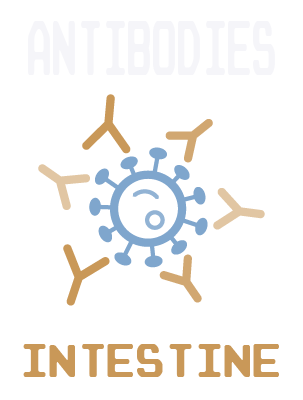
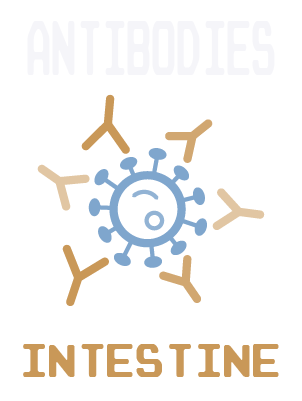
Fix immune-card reveal staleness, Hepatitis spread rarity, and trade grid layout
Gameplay fixes:
- Fixed a real bug behind "NK Cell's cleared cell showed the wrong icon
  mid-animation": revealBoardCells() always read the board's live,
  fully-turn-resolved state instead of a snapshot of what that specific
  card actually did. Since every immune card resolves synchronously
  before any of it is narrated, a later card touching the same cell (NK
  Cell clears the last infected cell in a row, then Antibody protects
  that now-empty row) made NK's own reveal step show the FINAL state
  instead of its own. Now captures an afterStates snapshot right after
  each card's own apply() call and renders that during its own reveal.
- Root-caused the "Antibody: Liver" banner label appearing over Lung's
  board/log activity to a mislabeled static asset
  (immune-antibody-lung.png actually contained "LIVER" artwork), not a
  code bug — confirmed via 258 real immune turns with zero data-level
  mismatches. Asset now corrected.
- Hepatitis's Horizontal Spread count reduced (2 -> 1, matching Vertical's
  already-minimal rarity) to fit its slow/chronic/"silent" identity rather
  than an aggressive spreader.

UI/UX:
- Trade popup's "receive" grid now groups each tissue's own cards
  together and never splits a tissue's pair across the two rows,
  regardless of pool size — replaces the old fixed-position order that
  only worked by coincidence for one specific pool size. Non-tissue cards
  (Replication Boost, Latency, Activate Tregs, Cytokines) backfill
[…]

diff --git a/games/stealth/game-ui.js b/games/stealth/game-ui.js
@@ -936,14 +936,28 @@ function _applyCellVisual(el, cellData, tissue, col, row) {
 }
 
 // Un-hides one played card's cells at the moment its own narration step
-// fires — drops them from boardRevealMask and syncs that cell's DOM
-// straight to the live model, alongside that same step's highlightCells()
-// flash (see runAutoPhase()).
-function revealBoardCells(cells) {
+// fires — drops them from boardRevealMask and syncs that cell's DOM,
+// alongside that same step's highlightCells() flash (see runAutoPhase()).
+//
+// `afterStates` (when given — only immune_response steps have this, see
+// buildImmuneSteps()) is a snapshot of each cell taken RIGHT AFTER this
+// specific card's own effect resolved (see game.js _runImmuneResponse()),
+// and is what actually gets rendered here in preference to the board's
+// current LIVE state. Every card played this turn already resolved
+// synchronously before any of it is narrated, so if a LATER card this same
+// turn touched one of these same cells again (e.g. NK Cell clears the last
+// infected cell in a row, then Antibody protects that now-empty row a few
+// cards later), the live cell would already show THAT later result too —
+// reading as "the antibody appeared before its own turn" during what's
+// supposed to be NK's own reveal. Falls back to the live cell when there's
+// no afterStates entry for it (virus_growth/mutation reveals, which have
+// no such multi-card-same-cell conflict to guard against).
+function revealBoardCells(cells, afterStates) {
   cells.forEach(({ tissue, col, row }) => {
     delete boardRevealMask[`${tissue}|${col}|${row}`];
     const board = activeGame && activeGame.boards[tissue];
-    const cell = board && board.cells[row] && board.cells[row][col];
+    const snapshot = afterStates && afterStates.find(s => s.tissue === tissue && s.col === col && s.row === row);
+    const cell = snapshot || (board && board.cells[row] && board.cells[row][col]);
     const el = document.querySelector(`.tissue-cell[data-tissue="${tissue}"][data-col="${col}"][data-row="${row}"]`);
     if (!el || !cell) return;
     _applyCellVisual(el, cell, tissue, col, row);
@@ -1178,7 +1192,7 @@ function buildImmuneSteps(g) {
       ? `${name} — Replication Speed −${STEALTH_CONFIG.VACCINE.PROTEIN_SPEED_PENALTY_AMOUNT} for 3 turns` : name;
     const html = tissue ? `<span class="narration-tissue">${_cap(tissue)}</span> — ${label}` : label;
     steps.push({
-      html, cls: 'line-immune', tissue, cells: p.cells, flashClass: _immuneFlashClass(p.id), inGroup: true, slow: true,
+      html, cls: 'line-immune', tissue, cells: p.cells, afterStates: p.afterStates, flashClass: _immuneFlashClass(p.id), inGroup: true, slow: true,
       // Antiviral and Protein Vaccine both flash the effective-speed badge
       // the same way Replication Boost's own +1 does, just by their own
       // (different) magnitudes — see ANTIVIRAL_PENALTY_AMOUNT/
@@ -1438,7 +1452,7 @@ function runAutoPhase() {
       // moment to actually register before the board reacts.
       setTimeout(() => {
         highlightCells(step.tissue, step.cells, step.flashClass);
-        revealBoardCells(step.cells);
+        revealBoardCells(step.cells, step.afterStates);
       }, BOARD_REVEAL_DELAY_MS);
     }
     // A single line can span multiple tissues (e.g. "Virus spread in Lung,
@@ -1833,25 +1847,57 @@ function getTradeableCardIds() {
   return [...ids];
 }
 
-// Fixed order for the "receive" tab's grid — tissue-paired (Antibody
-// Escape next to that same tissue's T-Cell Evasion) rather than grouped
-// purely by card function, so the two rows of a typical 10-card pool read
-// as "Liver / Lung" then "Intestine / Cytokines" instead of every
-// Antibody Escape variant sitting apart from its T-Cell Evasion
-// counterpart. Whatever the deck/hand/discard actually contains (see
-// getTradeableCardIds()) is sorted into this order, not drawn from it —
-// latency/activate-tregs aren't itemised here since they weren't part of
-// the requested ordering, so they fall through to the "not listed" case
-// below and sort to the end rather than disappearing. Horizontal/Vertical
-// Spread are never offered here at all — see TRADE_EXCLUDED_IDS above.
+// Priority order for the "receive" tab's grid — tissue-paired (Antibody
+// Escape next to that same tissue's T-Cell Evasion), liver/lung/intestine,
+// then the non-tissue "filler" cards. This is a PRIORITY, not a literal
+// layout — arrangeTradeReceiveIds() below does the actual row placement,
+// keeping every tissue's own cards grouped and never split across the
+// two rows, using filler cards to top up whatever's left of a row. Cards
+// not itemised here (shouldn't happen) sort to the end rather than
+// disappearing. Horizontal/Vertical Spread are never offered here at all
+// — see TRADE_EXCLUDED_IDS above.
 const TRADE_RECEIVE_ORDER = [
   'antibody-escape-liver', 'mhc1-downreg-liver',
   'antibody-escape-lung', 'mhc1-downreg-lung',
-  'spread-speed-plus',
   'antibody-escape-intestine', 'mhc1-downreg-intestine',
+  'spread-speed-plus', 'latency', 'activate-tregs',
   'cytokine-neutralise-red', 'cytokine-neutralise-orange', 'cytokine-neutralise-blue',
-  'latency', 'activate-tregs',
 ];
+
+// Arranges the receive grid so each tissue's own cards always sit next to
+// each other and never get split across the two rows (see
+// renderTradeModal()'s own gridTemplateColumns, which always makes exactly
+// 2 rows) — a fixed order alone can't guarantee that once the actual pool
+// size varies per game, since a tissue's pair could land right on a row
+// boundary. Non-tissue cards (Replication Boost, Latency, Activate Tregs,
+// the 3 Cytokine Neutralisations) have no such pairing to protect, so they
+// act as flexible single-slot filler, backfilled onto whichever row still
+// has room after every tissue's own cards are placed — e.g. Replication
+// Boost sitting at the end of row 1 just to round it out.
+function arrangeTradeReceiveIds(ids) {
+  const sorted = [...ids].sort((a, b) => TRADE_RECEIVE_ORDER.indexOf(a) - TRADE_RECEIVE_ORDER.indexOf(b));
+  const tissueOf = id => (id.match(/-(liver|lung|intestine)$/) || [])[1] || null;
+
+  const byTissue = { liver: [], lung: [], intestine: [] };
+  const fillers = [];
+  sorted.forEach(id => {
+    const t = tissueOf(id);
+    if (t) byTissue[t].push(id); else fillers.push(id);
+  });
+  const tissueClusters = ['liver', 'lung', 'intestine'].map(t => byTissue[t]).filter(c => c.length);
+
+  const cols = Math.max(1, Math.ceil(ids.length / 2));
+  const rows = [[], []];
+  tissueClusters.forEach(cluster => {
+    const row = rows[0].length + cluster.length <= cols ? rows[0] : rows[1];
+    row.push(...cluster);
+  });
+  fillers.forEach(id => {
+    const row = rows[0].length < cols ? rows[0] : rows[1];
+    row.push(id);
+  });
+  return [...rows[0], ...rows[1]];
+}
 
 function renderTradeModal() {
   const giveWrap = document.getElementById('trade-give-cards');
@@ -1866,8 +1912,7 @@ function renderTradeModal() {
 
   const receiveWrap = document.getElementById('trade-receive-cards');
   receiveWrap.innerHTML = '';
-  const receiveIds = getTradeableCardIds()
-    .sort((a, b) => TRADE_RECEIVE_ORDER.indexOf(a) - TRADE_RECEIVE_ORDER.indexOf(b));
+  const receiveIds = arrangeTradeReceiveIds(getTradeableCardIds());
   receiveIds.forEach(id => {
     const def = STEALTH_CARD_DEFS[id];
     if (!def) return;

diff --git a/games/stealth/game.js b/games/stealth/game.js
@@ -397,7 +397,25 @@ class StealthGame {
           return snap ? { tissue: c.tissue, col: c.col, row: c.row, ...snap } : null;
         }).filter(Boolean);
 
-        played.push({ id: card.id, name: card.name, icon: card.icon, tissue: card.tissue, cells, beforeStates });
+        // Snapshot taken RIGHT NOW — immediately after THIS card's own
+        // apply() resolved, before the loop moves on to the next card in
+        // hand. Every card this turn resolves synchronously in one pass,
+        // well before any of it is narrated, so if a LATER card in this
+        // same loop touches one of these same cells again (e.g. NK Cell
+        // clears the last infected cell in a row, then Antibody protects
+        // that now-empty row a few cards later), the board's LIVE state by
+        // the time NK's own narration step finally reveals it would
+        // already show Antibody's result too — reading as "the antibody
+        // appeared before its own turn". afterStates is what THIS card's
+        // own reveal step actually renders instead (see revealBoardCells(),
+        // game-ui.js) — a clean freeze-frame of right after its own effect,
+        // regardless of what happens to these cells later this same turn.
+        const afterStates = cells.map(c => {
+          const cell = this.boards[c.tissue] && this.boards[c.tissue].cells[c.row] && this.boards[c.tissue].cells[c.row][c.col];
+          return cell ? { tissue: c.tissue, col: c.col, row: c.row, state: cell.state, cytokineColor: cell.cytokineColor, protectedTurns: cell.protectedTurns } : null;
+        }).filter(Boolean);
+
+        played.push({ id: card.id, name: card.name, icon: card.icon, tissue: card.tissue, cells, beforeStates, afterStates });
         this.immuneDeck.discardCard(card);
       });
       this.immuneHand = stillHeld;

diff --git a/games/stealth/cards.js b/games/stealth/cards.js
@@ -637,7 +637,8 @@ class StealthDeck {
     includedTypes.add('infect-vertical');
     const infectCounts = STEALTH_CONFIG.INFECT_CARDS[difficultyName] || STEALTH_CONFIG.INFECT_CARDS.medium;
     const verticalBonus = virusId === 'norovirus' ? STEALTH_CONFIG.NOROVIRUS_VERTICAL_BONUS : 0;
-    const horizontalBonus = virusId === 'norovirus' ? STEALTH_CONFIG.NOROVIRUS_HORIZONTAL_BONUS : 0;
+    const horizontalBonus = virusId === 'norovirus' ? STEALTH_CONFIG.NOROVIRUS_HORIZONTAL_BONUS
+                           : virusId === 'hepatitis' ? -STEALTH_CONFIG.HEPATITIS_HORIZONTAL_PENALTY : 0;
 
     // Per-virus count overrides for cards every kit now includes by default
     // (see generateDeck(), index.html) but that should show up at
@@ -662,8 +663,11 @@ class StealthDeck {
     includedTypes.forEach(id => {
       const def = STEALTH_CARD_DEFS[id];
       if (!def) return;
-      const count = id === 'infect-horizontal' ? infectCounts.horizontal + horizontalBonus
-                  : id === 'infect-vertical'   ? infectCounts.vertical + verticalBonus
+      // Floored at 1 — a penalty (Hepatitis) should make the card RARE,
+      // not remove it outright; only a bonus should ever be able to push
+      // a count down to 0 or below on its own.
+      const count = id === 'infect-horizontal' ? Math.max(1, infectCounts.horizontal + horizontalBonus)
+                  : id === 'infect-vertical'   ? Math.max(1, infectCounts.vertical + verticalBonus)
                   : countOverrides[id] !== undefined ? countOverrides[id]
                   : def.count;
       for (let i = 0; i < count; i++) this.draw.push({ ...def });

diff --git a/games/stealth/config.js b/games/stealth/config.js
@@ -258,6 +258,14 @@ const STEALTH_CONFIG = {
   // StealthDeck._buildFromLoadout.
   NOROVIRUS_VERTICAL_BONUS: 9,
   NOROVIRUS_HORIZONTAL_BONUS: 7,
+  // The opposite lean for Hepatitis — its whole identity is a slow,
+  // chronic, "silent" infection (see its own flavour text) rather than an
+  // aggressive spreader, and it already has other strengths to lean on
+  // instead (permanent Cytokine immunity, Latency, T-Cell Evasion — see
+  // its abilities). Vertical is already at INFECT_CARDS' own floor (1) for
+  // every band, so there's nothing left to cut there without removing the
+  // card outright; horizontal is what actually gets rarer for it.
+  HEPATITIS_HORIZONTAL_PENALTY: 1,
 
   // ── Cards / hand ─────────────────────────────────────────────────
   CARDS: {

diff --git a/games/stealth/index.html b/games/stealth/index.html
@@ -2016,11 +2016,11 @@ const STEALTH_GAME_CONFIG = {
 <script src="../shared/ui.js"></script>
 
 <!-- Mission engine -->
-<script src="config.js?cachebust=155"></script>
-<script src="board.js?cachebust=155"></script>
-<script src="cards.js?cachebust=155"></script>
-<script src="game.js?cachebust=155"></script>
-<script src="game-ui.js?cachebust=155"></script>
+<script src="config.js?cachebust=157"></script>
+<script src="board.js?cachebust=157"></script>
+<script src="cards.js?cachebust=157"></script>
+<script src="game.js?cachebust=157"></script>
+<script src="game-ui.js?cachebust=157"></script>
 
 <script>
 // Initialize shared UI with game config
